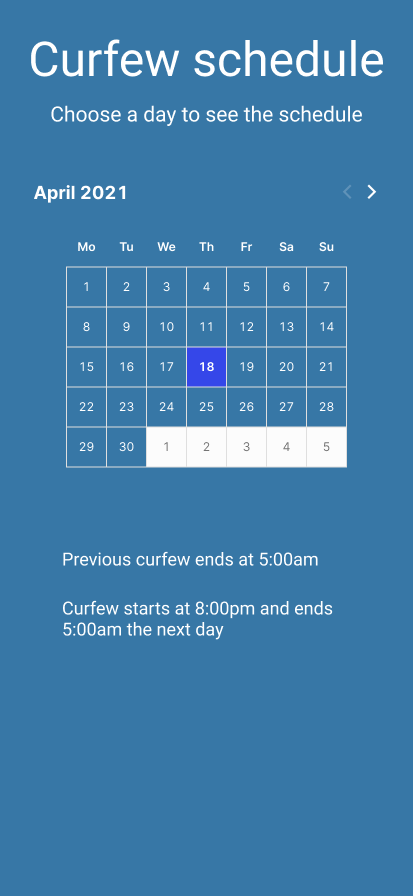
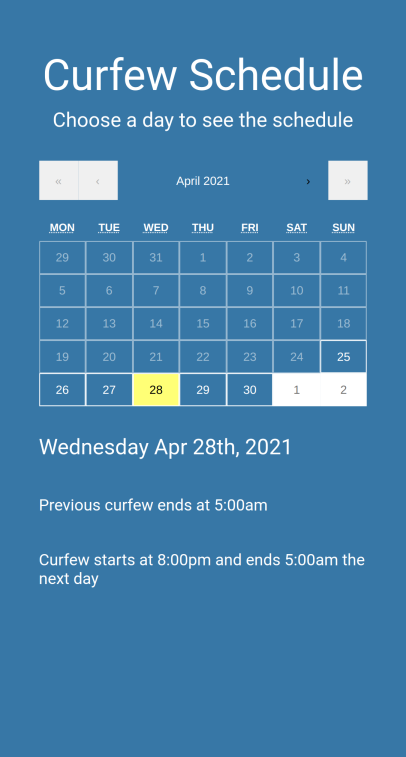
Updated README with schedule screenshot

diff --git a/README.md b/README.md
@@ -12,10 +12,4 @@ Curfew JA gives some information about the current curfew conditions in Jamaica 
 ![](/screencaps/starting-soon.png)
 ![](/screencaps/movement-allowed.png)
 ![](/screencaps/no-curfew.png)
-
-## Coming soon
-
-View upcoming curfew schedules
-
 ![](/screencaps/schedule.png)
-![](/screencaps/schedule-no-restrictions.png)
